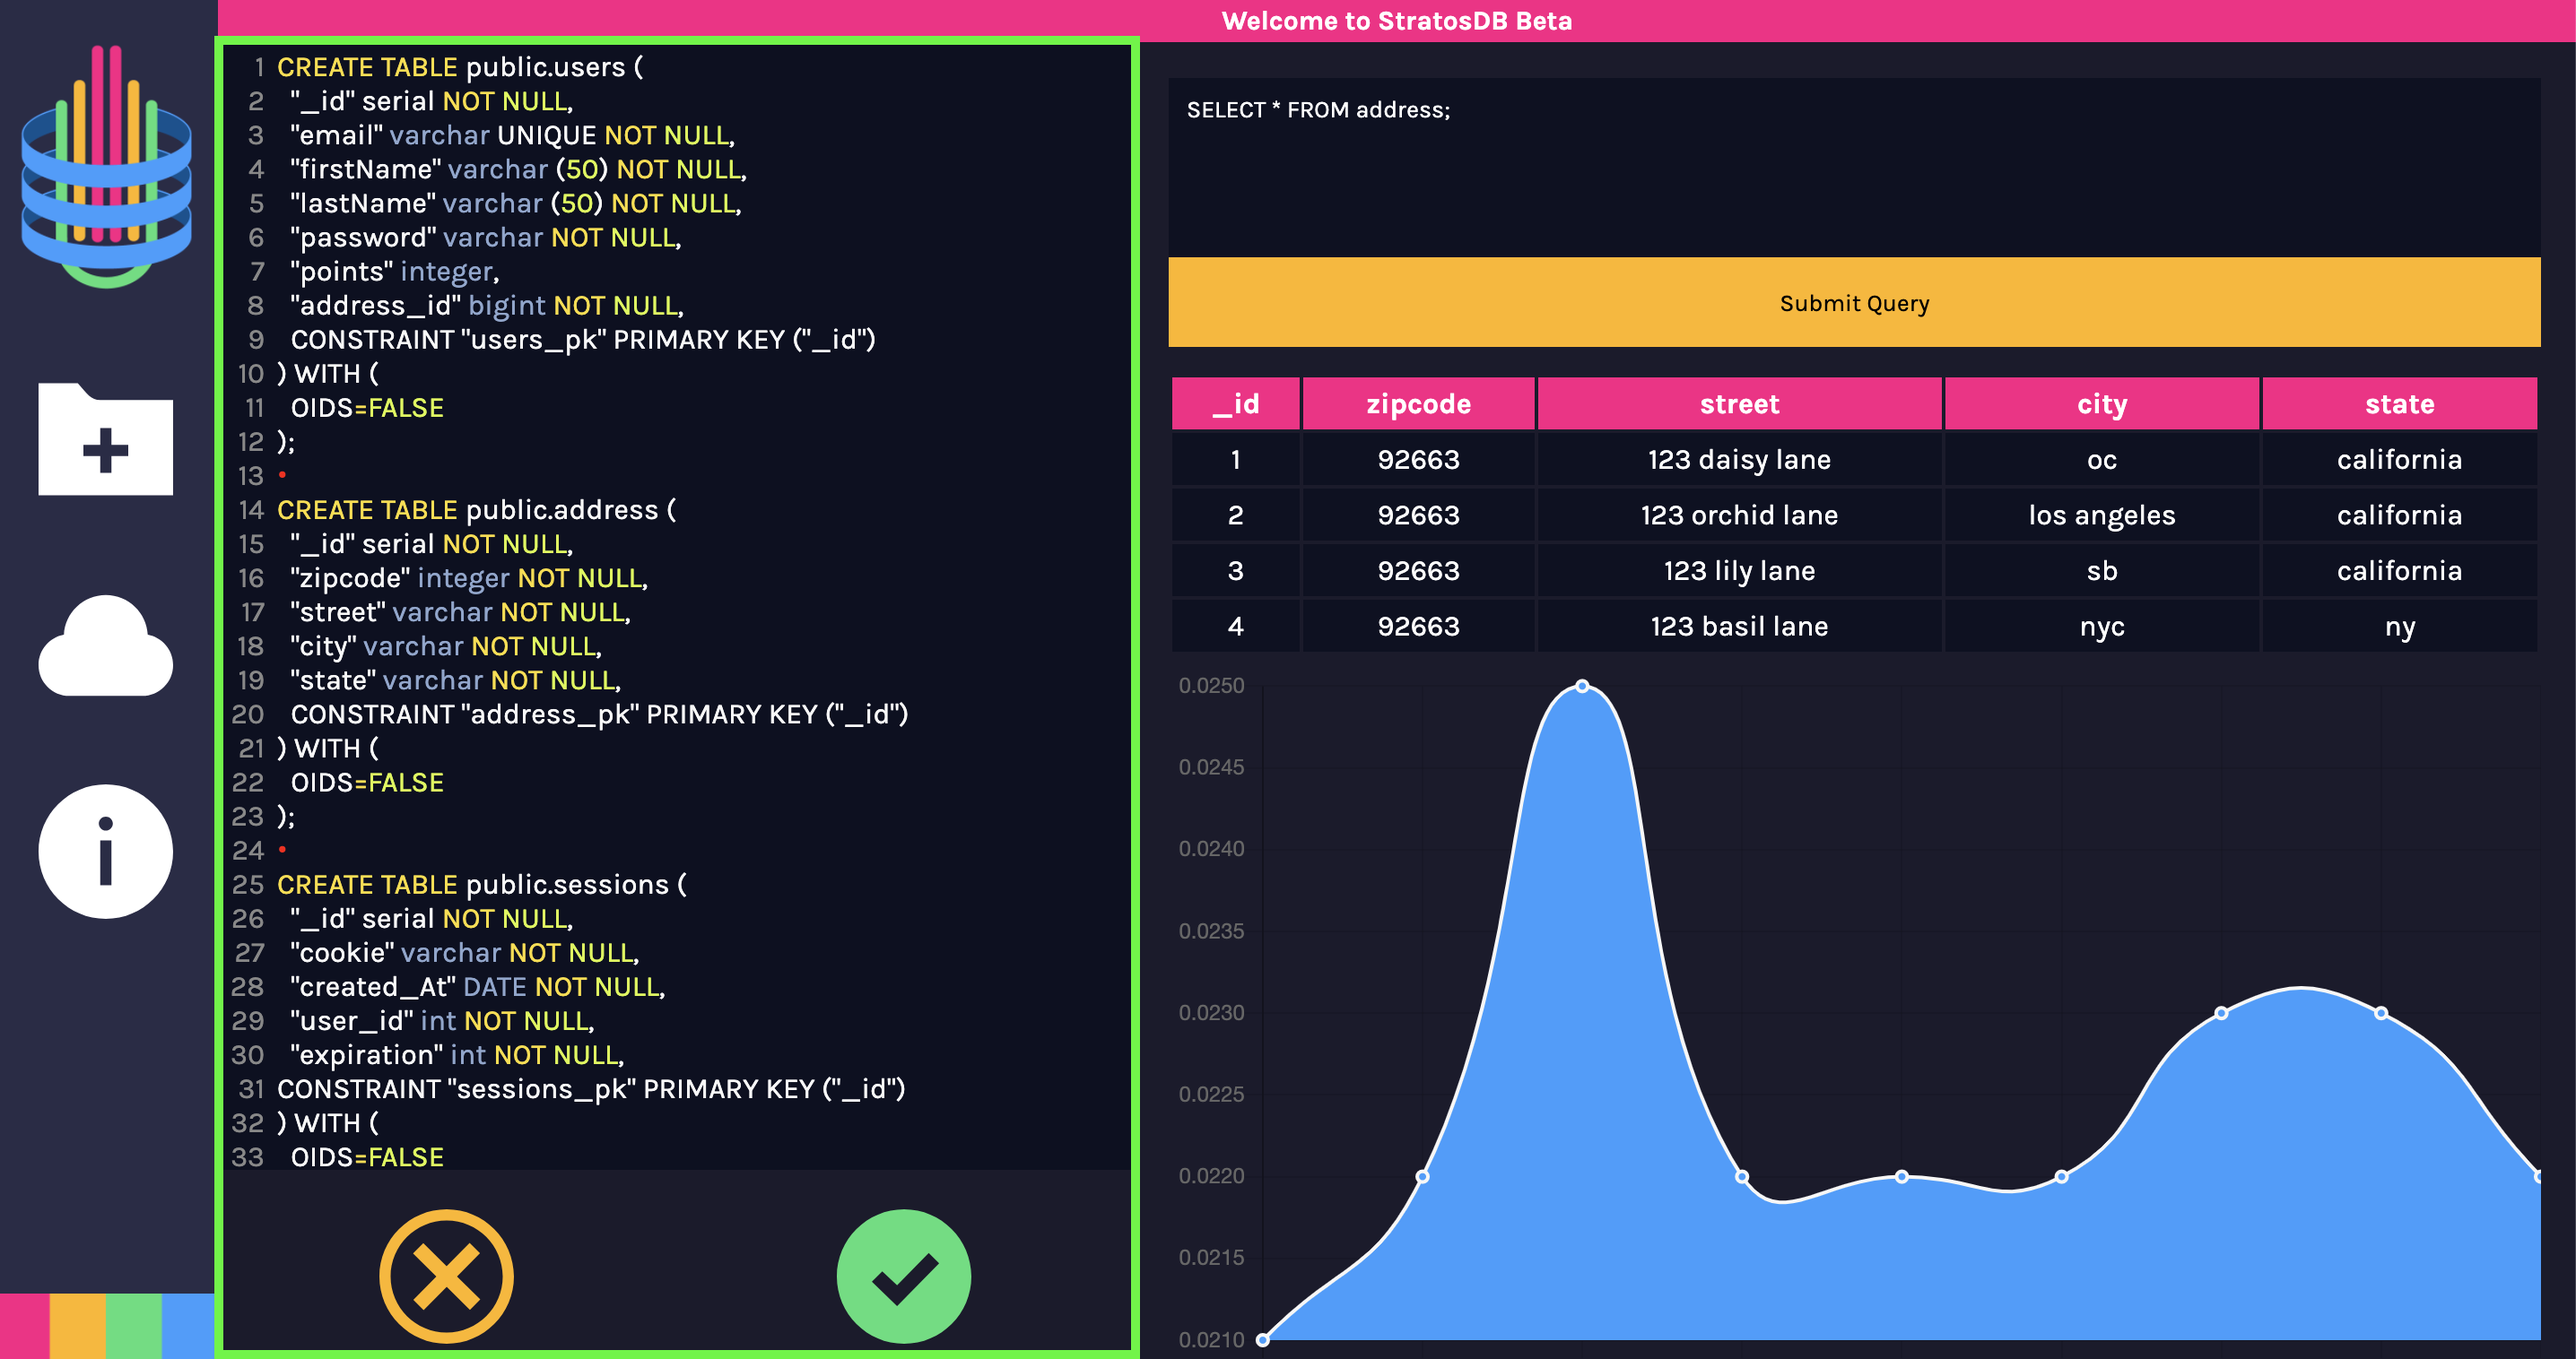
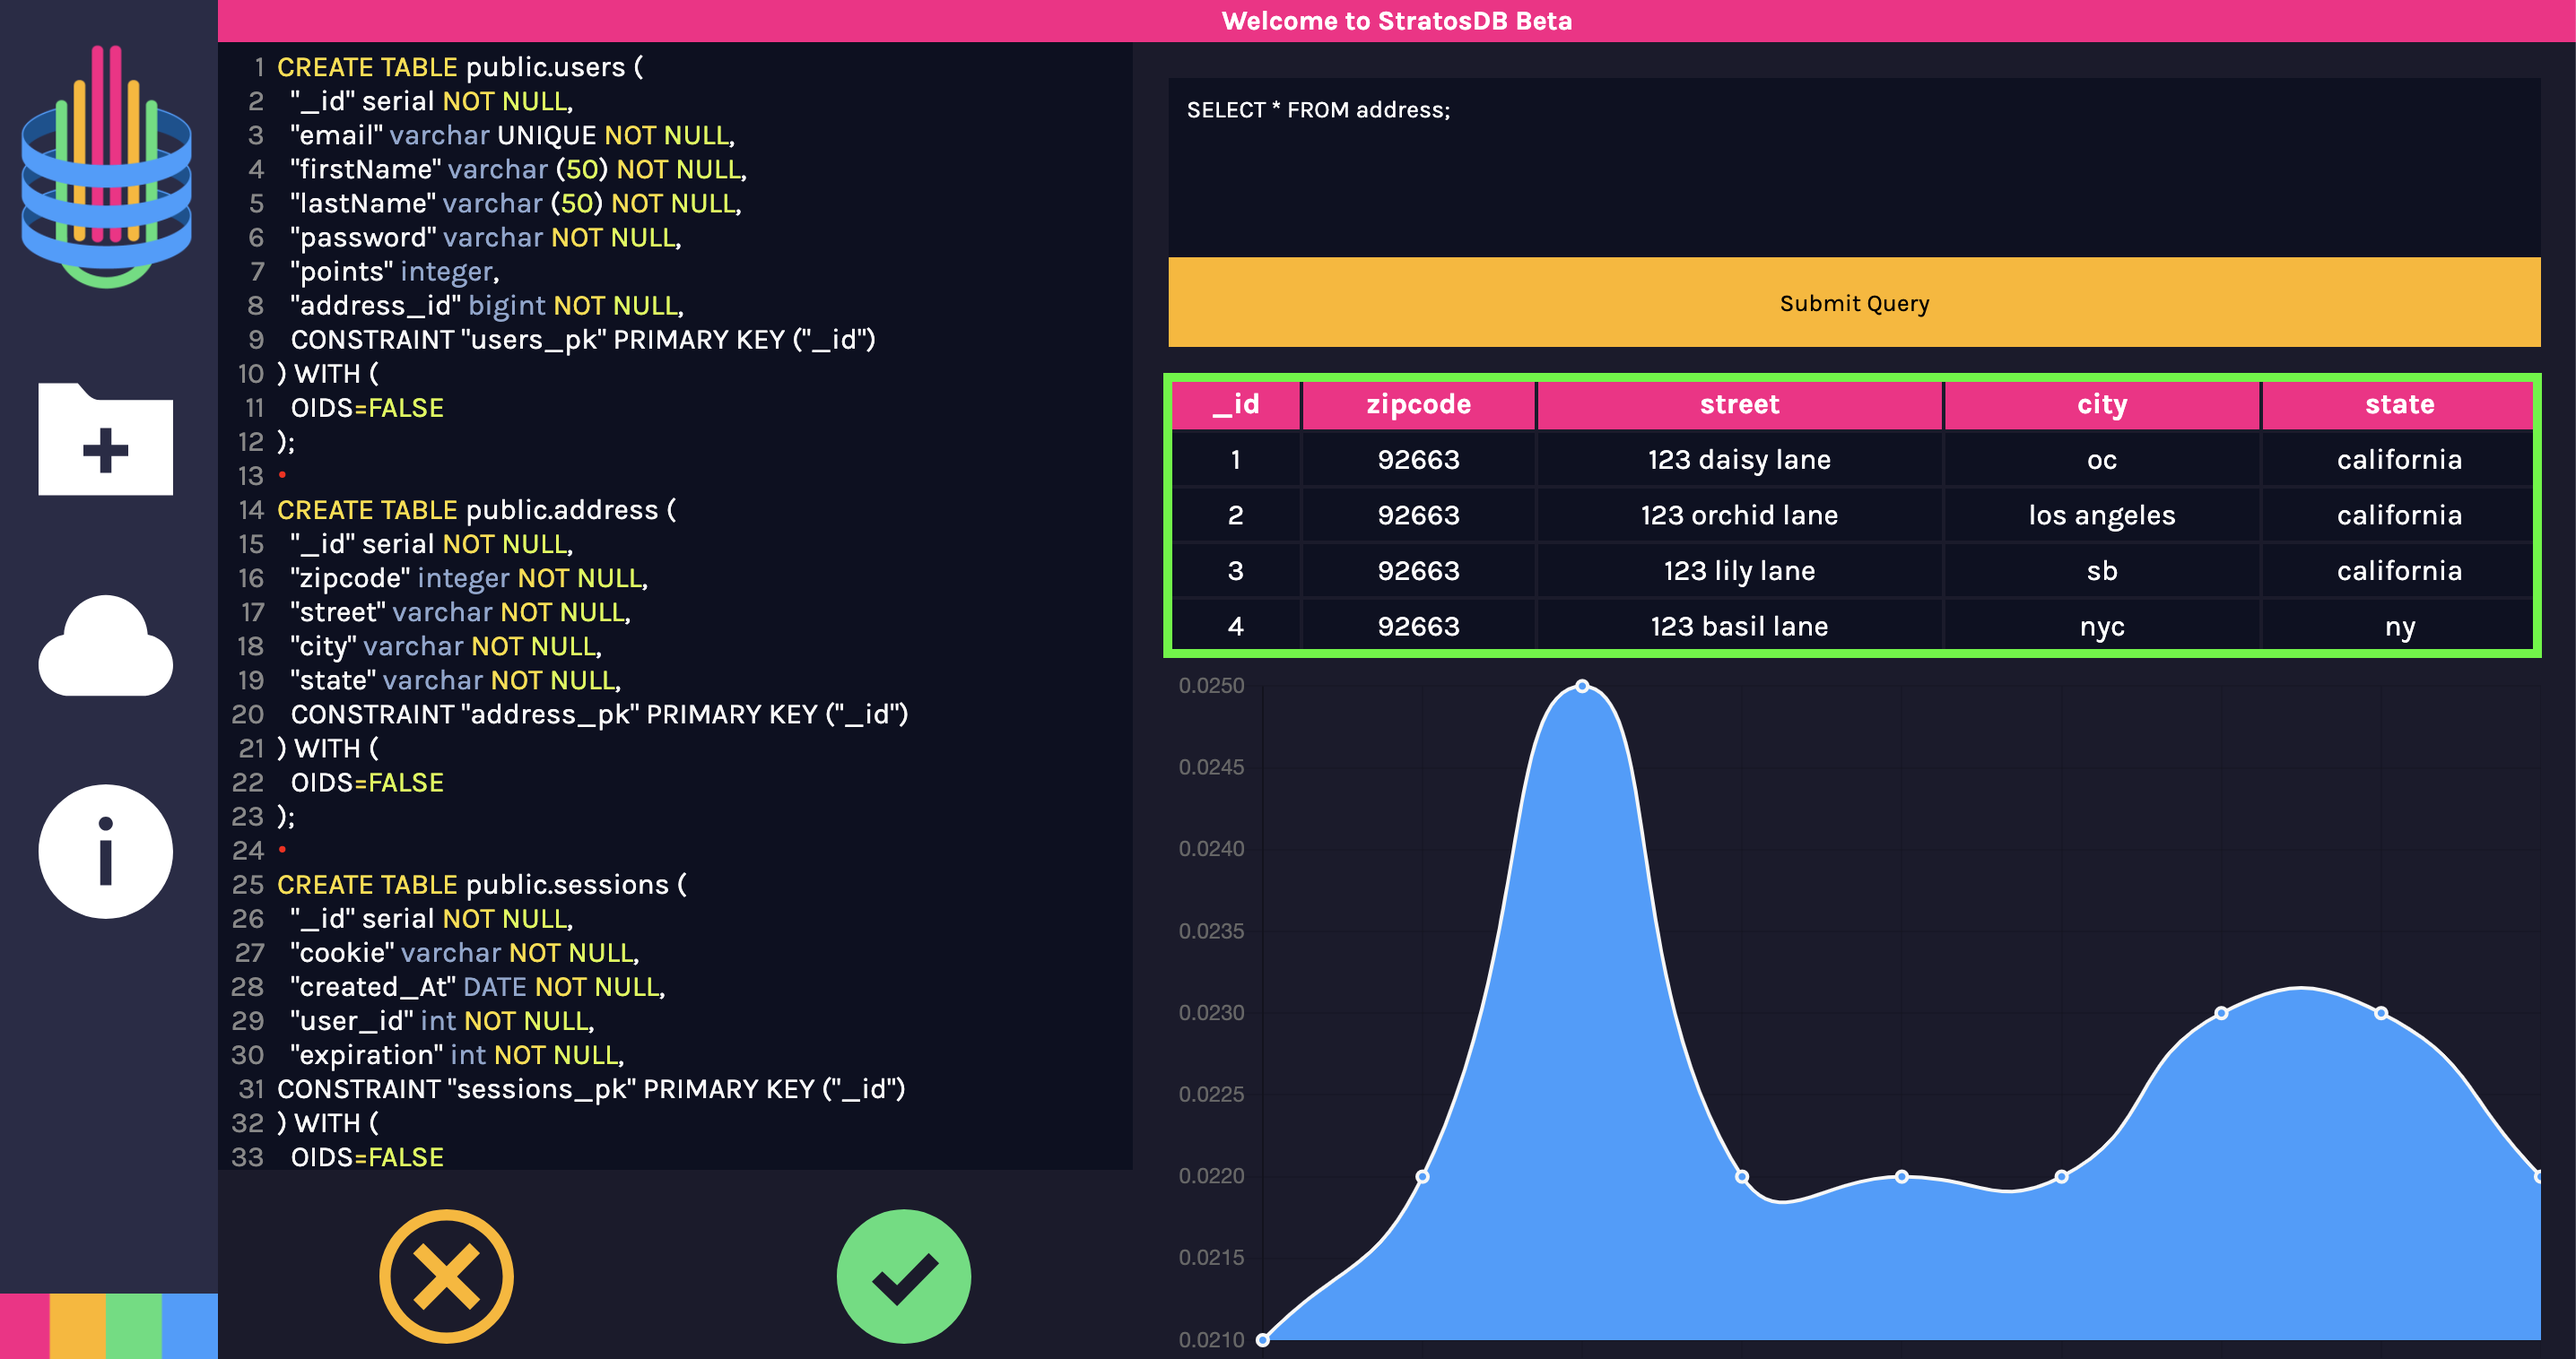
added a hidden scroll bar for Table component

Changed region(s): [[0.062, 0.031, 0.9916, 1.0], [0.093, 0.0, 0.4338, 0.031]]

diff --git a/client/components/InfoModal.tsx b/client/components/InfoModal.tsx
@@ -117,8 +117,20 @@ const InfoModal: React.FC<infoModalState> = (props: infoModalState) => {
           <h2>RETURN TABLE</h2>
           <p>Click on the Cloud Icon (located on the Left Sidebar)</p>
           <br />
+          <img
+            src="./../client/assets/images/info-modal-returned-table.png"
+            alt=""
+            width="60%"
+          />
+          <br />
           <h2>VISUAL LINE GRAPH</h2>
           <p>Click on the Cloud Icon (located on the Left Sidebar)</p>
+          <br />
+          <img
+            src="./../client/assets/images/info-modal-line-graph.png"
+            alt=""
+            width="60%"
+          />
           <br />
           <h1>B E T A</h1>
           <p>

diff --git a/client/assets/stylesheets/scss/table.scss b/client/assets/stylesheets/scss/table.scss
@@ -3,6 +3,11 @@
 #table-container {
   max-height: 80%;
   margin: 0 0 10px 0;
+  overflow-y: scroll;
+
+  &::-webkit-scrollbar {
+    display: none;
+  }
 
   #result-table {
     width: 100%;
